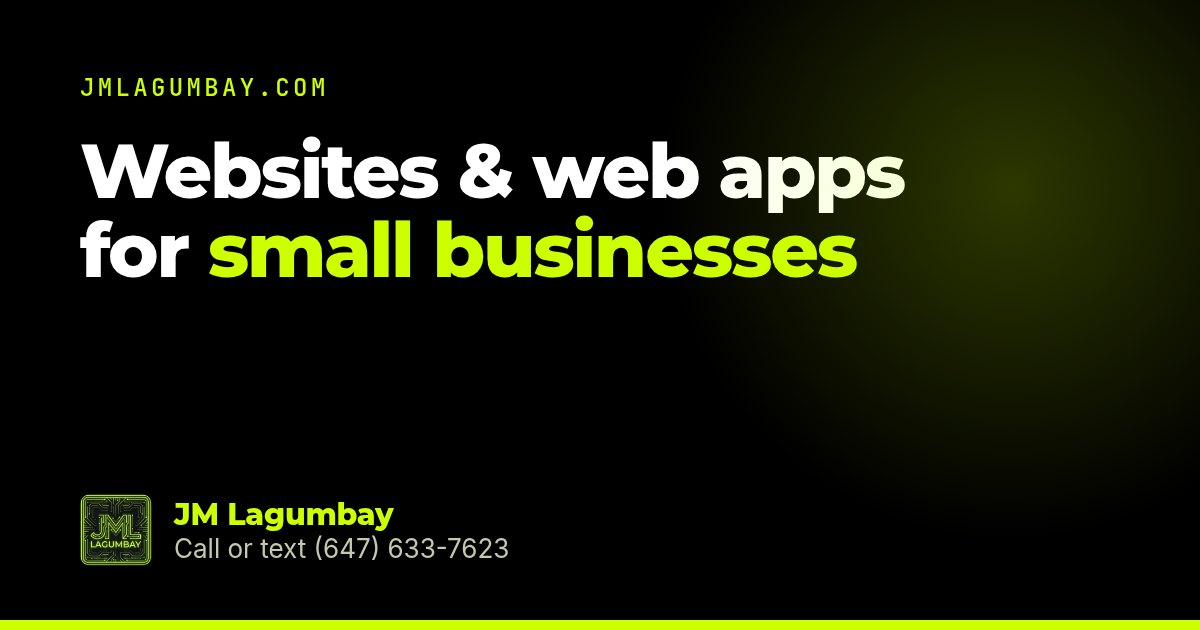
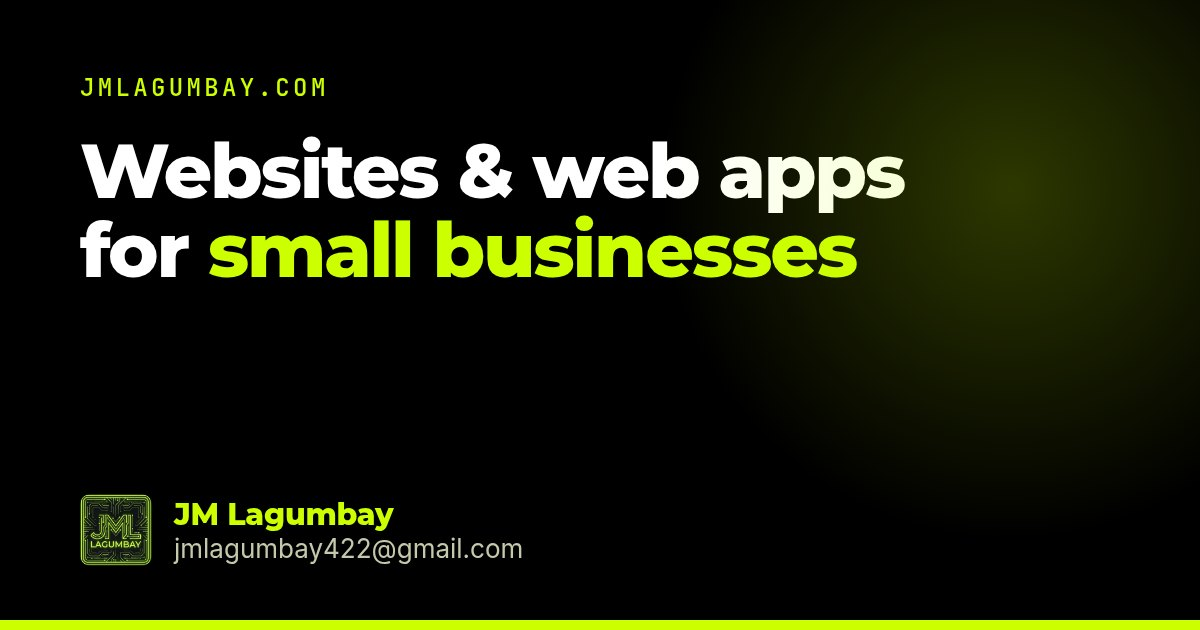
Remove phone number, generalize copy, hide demo URLs, drop production-line section

Changed region(s): [[0.1233, 0.8444, 0.4317, 0.9048]]

diff --git a/src/pages/Home.jsx b/src/pages/Home.jsx
@@ -1,6 +1,6 @@
 import { useRef, useState } from "react";
 import { Link } from "react-router-dom";
-import { IconArrowRight, IconDeviceMobile, IconAppWindow, IconWorld, IconPhone } from "@tabler/icons-react";
+import { IconArrowRight, IconDeviceMobile, IconAppWindow, IconWorld, IconPhone, IconMail } from "@tabler/icons-react";
 import Seo from "@/components/Seo";
 import Reveal from "@/components/Reveal";
 import HeroGlow from "@/components/HeroGlow";
@@ -9,13 +9,13 @@ import NestWillowCard from "@/components/NestWillowCard";
 import PreviewPauseButton from "@/components/PreviewPauseButton";
 import CtaBand from "@/components/CtaBand";
 import { DEMOS, FEATURED_DEMOS } from "@/data/work";
-import { PHONE_DISPLAY, PHONE_HREF } from "@/data/site";
+import { EMAIL, PHONE, PHONE_DISPLAY, PHONE_HREF } from "@/data/site";
 
 const HEADLINE = ["I", "build", "fast,", "modern", "websites", "and", "web", "apps", "for", "small", "businesses", "and", "founders."];
 const LIME_FROM = 9; // "small businesses and founders." in lime
 
 const HIGHLIGHTS = [
-  { icon: IconDeviceMobile, title: "Websites that bring in customers", text: "Salons, auto shops, bakeries, cleaners: a site that works on every phone, with tap-to-call, your hours and a map, and that shows up on Google. Packages from $499 (launch price), ready in 3–14 business days." },
+  { icon: IconDeviceMobile, title: "Websites that bring in customers", text: "A site that works on every phone, with tap-to-call, your hours and a map, and that shows up on Google. Packages from $499 (launch price), ready in 3–14 business days." },
   { icon: IconAppWindow, title: "Custom web apps", text: "Dashboards, client portals, booking or management tools, and SaaS MVPs for founders. Built with React, Node, Java/Spring and Python, with a fixed quote before I start." },
   { icon: IconWorld, title: "Clear prices, wherever you are", text: "Website packages are one price, paid once. Apps get a fixed quote. I work remotely with clients across Canada and beyond, so where you\u2019re based doesn\u2019t matter." },
 ];
@@ -51,10 +51,17 @@ export function Component() {
             <Link to="/work" className="btn-ghost">See my work</Link>
           </div>
           <p className="mt-6 text-on-surface-variant">
-            <a href={PHONE_HREF} className="inline-flex min-h-[44px] items-center gap-2 font-semibold text-on-surface hover:text-electric-lime">
-              <IconPhone size={18} stroke={2} aria-hidden="true" className="text-electric-lime" />
-              Call or text {PHONE_DISPLAY}
-            </a>
+            {PHONE ? (
+              <a href={PHONE_HREF} className="inline-flex min-h-[44px] items-center gap-2 font-semibold text-on-surface hover:text-electric-lime">
+                <IconPhone size={18} stroke={2} aria-hidden="true" className="text-electric-lime" />
+                Call or text {PHONE_DISPLAY}
+              </a>
+            ) : (
+              <a href={`mailto:${EMAIL}`} className="inline-flex min-h-[44px] items-center gap-2 font-semibold text-on-surface hover:text-electric-lime">
+                <IconMail size={18} stroke={2} aria-hidden="true" className="shrink-0 text-electric-lime" />
+                <span className="min-w-0 [overflow-wrap:anywhere]">Or email {EMAIL}</span>
+              </a>
+            )}
           </p>
         </div>
       </section>
@@ -107,22 +114,6 @@ export function Component() {
           <Reveal className="mt-8">
             <Link to="/work" className="link inline-flex min-h-[44px] items-center gap-1.5">
               See all my work <IconArrowRight size={18} stroke={2.2} aria-hidden="true" />
-            </Link>
-          </Reveal>
-        </div>
-      </section>
-
-      <section className="section" aria-labelledby="trust-title">
-        <div className="wrap grid gap-8 lg:grid-cols-[1fr_1.2fr] lg:items-center">
-          <Reveal>
-            <h2 id="trust-title" className="h-section">I run your project like a production line</h2>
-          </Reveal>
-          <Reveal delay={0.08}>
-            <p className="lead">
-              Before I built websites and apps, I spent 18 years in process and quality work at Tesla, SYKES and DigitalStorm. Your project gets the same care: a clear plan, checks at every step, and work that&apos;s ready when I say it will be.
-            </p>
-            <Link to="/about" className="link mt-6 inline-flex min-h-[44px] items-center gap-1.5">
-              Read my story <IconArrowRight size={18} stroke={2.2} aria-hidden="true" />
             </Link>
           </Reveal>
         </div>

diff --git a/src/components/ContactForm.jsx b/src/components/ContactForm.jsx
@@ -1,7 +1,7 @@
 import { useEffect, useRef, useState } from "react";
 import { useSearchParams } from "react-router-dom";
 import { IconSend, IconCircleCheck, IconAlertTriangle } from "@tabler/icons-react";
-import { EMAIL, PHONE_DISPLAY, PHONE_HREF } from "@/data/site";
+import { EMAIL, PHONE, PHONE_DISPLAY, PHONE_HREF } from "@/data/site";
 
 // The Web3Forms access key comes ONLY from the build environment (VITE_WEB3FORMS_KEY).
 // Locally: .env.local (git-ignored). Production: GitHub repository secret, passed in by the deploy workflow.
@@ -30,7 +30,7 @@ function validate(f) {
     // (clients outside Canada) may have up to 15 digits (E.164), or 8+ when written with a leading "+".
     const d = phone.replace(/\D/g, "");
     const ok = /^\+/.test(phone) ? d.length >= 8 && d.length <= 15 : d.length >= 10 && d.length <= 15;
-    // Only digits, spaces, ( ) . - and at most ONE leading "+" (rejects "++1 647…" and "647+633+7623").
+    // Only digits, spaces, ( ) . - and at most ONE leading "+" (rejects "++1 905…" and "905+555+0123").
     if (!ok || !/^\+?[\d\s().-]+$/.test(phone)) e.phone = "Please enter a valid phone number, including the country or area code.";
   }
   if (!f.need) e.need = "Please choose what you need. \u201cNot sure yet\u201d is fine.";
@@ -130,7 +130,9 @@ export default function ContactForm() {
       <div className="card p-7 sm:p-9" role="status">
         <IconCircleCheck size={44} stroke={1.8} aria-hidden="true" className="text-electric-lime" />
         <h2 ref={statusRef} tabIndex={-1} className="mt-4 text-2xl font-extrabold">Thanks, your message is on its way!</h2>
-        <p className="mt-3 text-on-surface">I&apos;ll get back to you soon. If it&apos;s urgent, call or text me at <a href={PHONE_HREF} className="link">{PHONE_DISPLAY}</a>.</p>
+        <p className="mt-3 text-on-surface">I&apos;ll get back to you soon. If it&apos;s urgent, {PHONE
+          ? <>call or text me at <a href={PHONE_HREF} className="link">{PHONE_DISPLAY}</a>.</>
+          : <>email me at <a href={`mailto:${EMAIL}`} className="link [overflow-wrap:anywhere]">{EMAIL}</a>.</>}</p>
         <button type="button" className="btn-primary mt-7" onClick={backToForm}>Send another message</button>
       </div>
     );
@@ -144,7 +146,7 @@ export default function ContactForm() {
           {status === "offline" ? (
             <>Looks like you&apos;re offline. Check your connection and try again.</>
           ) : (
-            <>Please try again in a moment, or call or text me at <a href={PHONE_HREF} className="link">{PHONE_DISPLAY}</a> or email <a href={`mailto:${EMAIL}`} className="link [overflow-wrap:anywhere]">{EMAIL}</a>.</>
+            <>Please try again in a moment, or {PHONE && <>call or text me at <a href={PHONE_HREF} className="link">{PHONE_DISPLAY}</a> or </>}email <a href={`mailto:${EMAIL}`} className="link [overflow-wrap:anywhere]">{EMAIL}</a>.</>
           )}
         </p>
         <button type="button" className="btn-primary mt-7" onClick={backToForm}>Try again</button>

diff --git a/src/pages/Contact.jsx b/src/pages/Contact.jsx
@@ -3,7 +3,7 @@ import Seo from "@/components/Seo";
 import PageHeader from "@/components/PageHeader";
 import Reveal from "@/components/Reveal";
 import ContactForm from "@/components/ContactForm";
-import { EMAIL, GITHUB_URL, LINKEDIN_URL, LOCATION, REMOTE, PHONE_DISPLAY, PHONE_HREF } from "@/data/site";
+import { EMAIL, GITHUB_URL, LINKEDIN_URL, LOCATION, REMOTE, PHONE, PHONE_DISPLAY, PHONE_HREF } from "@/data/site";
 
 const ext = { target: "_blank", rel: "noopener noreferrer" };
 
@@ -33,7 +33,7 @@ export function Component() {
         <div className="wrap grid gap-12 lg:grid-cols-[0.8fr_1.2fr] lg:items-start">
           <Reveal>
             <ul className="space-y-7">
-              <Row icon={IconPhone} label="Call or text"><a href={PHONE_HREF} className={linkCls}>{PHONE_DISPLAY}</a></Row>
+              {PHONE && <Row icon={IconPhone} label="Call or text"><a href={PHONE_HREF} className={linkCls}>{PHONE_DISPLAY}</a></Row>}
               <Row icon={IconMail} label="Email"><a href={`mailto:${EMAIL}`} className={`${linkCls} [overflow-wrap:anywhere]`}>{EMAIL}</a></Row>
               <Row icon={IconMapPin} label="Based in"><span>{LOCATION} · {REMOTE}</span></Row>
               <Row icon={IconBrandLinkedin} label="Online">
@@ -44,7 +44,9 @@ export function Component() {
               </Row>
             </ul>
             <p className="mt-8 rounded-2xl border border-border-subtle bg-graphite-grey p-5 text-on-surface">
-              Prefer to talk? Call or text me. It&apos;s the quickest way.
+              {PHONE
+                ? <>Prefer to talk? Call or text me. It&apos;s the quickest way.</>
+                : <>The easiest way to reach me is the form, or email me any time. I&apos;ll get back to you with the next steps.</>}
             </p>
           </Reveal>
           <Reveal delay={0.08}><ContactForm /></Reveal>

diff --git a/src/components/CtaBand.jsx b/src/components/CtaBand.jsx
@@ -1,9 +1,11 @@
 import { Link } from "react-router-dom";
-import { IconPhone, IconArrowRight } from "@tabler/icons-react";
+import { IconPhone, IconMail, IconArrowRight } from "@tabler/icons-react";
 import Reveal from "./Reveal";
-import { PHONE_DISPLAY, PHONE_HREF } from "@/data/site";
+import { EMAIL, PHONE, PHONE_DISPLAY, PHONE_HREF } from "@/data/site";
 
-export default function CtaBand({ title, text, primary = { to: "/contact", label: "Start your project" }, phone = true }) {
+/** `direct`: show a second button to reach me directly (call/text while a business phone is set in
+ *  site.js, otherwise email). */
+export default function CtaBand({ title, text, primary = { to: "/contact", label: "Start your project" }, direct = true }) {
   return (
     <section className="section" aria-labelledby="cta-title">
       <div className="wrap">
@@ -16,10 +18,16 @@ export default function CtaBand({ title, text, primary = { to: "/contact", label
               {primary.label}
               <IconArrowRight size={18} stroke={2.2} aria-hidden="true" />
             </Link>
-            {phone && (
+            {direct && PHONE && (
               <a href={PHONE_HREF} className="btn-ghost w-full sm:w-auto">
                 <IconPhone size={18} stroke={2} aria-hidden="true" />
                 Call or text <span className="whitespace-nowrap">{PHONE_DISPLAY}</span>
+              </a>
+            )}
+            {direct && !PHONE && (
+              <a href={`mailto:${EMAIL}`} className="btn-ghost w-full sm:w-auto">
+                <IconMail size={18} stroke={2} aria-hidden="true" />
+                Email me
               </a>
             )}
           </div>

diff --git a/src/layout/MobileMenu.jsx b/src/layout/MobileMenu.jsx
@@ -2,9 +2,9 @@ import { useCallback, useEffect, useRef, useState } from "react";
 import { createPortal } from "react-dom";
 import { NavLink, Link, useLocation } from "react-router-dom";
 import { AnimatePresence, m } from "motion/react";
-import { IconMenu2, IconX, IconPhone } from "@tabler/icons-react";
+import { IconMenu2, IconX, IconPhone, IconMail } from "@tabler/icons-react";
 import Logo from "@/components/Logo";
-import { NAV, PHONE_DISPLAY, PHONE_HREF } from "@/data/site";
+import { NAV, EMAIL, PHONE, PHONE_DISPLAY, PHONE_HREF } from "@/data/site";
 
 const FOCUSABLE = 'a[href], button:not([disabled]), [tabindex]:not([tabindex="-1"])';
 
@@ -127,10 +127,17 @@ export default function MobileMenu() {
               </m.ul>
               <div className="mt-10 flex flex-col gap-3">
                 <Link to="/contact" onClick={close} className="btn-primary">Start your project</Link>
-                <a href={PHONE_HREF} className="btn-ghost">
-                  <IconPhone size={18} stroke={2} aria-hidden="true" />
-                  Call or text {PHONE_DISPLAY}
-                </a>
+                {PHONE ? (
+                  <a href={PHONE_HREF} className="btn-ghost">
+                    <IconPhone size={18} stroke={2} aria-hidden="true" />
+                    Call or text {PHONE_DISPLAY}
+                  </a>
+                ) : (
+                  <a href={`mailto:${EMAIL}`} className="btn-ghost">
+                    <IconMail size={18} stroke={2} aria-hidden="true" />
+                    Email me
+                  </a>
+                )}
               </div>
             </nav>
           </m.div>

diff --git a/src/data/seo.js b/src/data/seo.js
@@ -22,7 +22,7 @@ export const SEO = {
     path: "/work",
     title: "NestWillow, Demo Sites & Projects | JM Lagumbay",
     description:
-      "See NestWillow, my live property-management web app, plus demo websites for salons, bakeries, auto shops and cleaners, and my web and ML projects.",
+      "See NestWillow, my live property-management web app, plus demo websites for local businesses, and my web and ML projects.",
     ogTitle: "NestWillow, Demo Sites & Projects | JM Lagumbay",
     ogDescription:
       "My live web app NestWillow, five demo websites for local businesses, and my web and machine-learning projects.",
@@ -40,10 +40,10 @@ export const SEO = {
     path: "/contact",
     title: "Contact JM Lagumbay | Start Your Website or Web App",
     description:
-      "Tell me what you need, a website or a custom web app. Call or text (647) 633-7623, email me or send the quick form. I work remotely with clients anywhere.",
+      "Tell me what you need, a website or a custom web app. Send the quick form or email me. I work remotely with clients anywhere.",
     ogTitle: "Let's Talk About Your Project | JM Lagumbay",
     ogDescription:
-      "A website or a custom web app? Call or text (647) 633-7623, or send a quick message. I work remotely with clients anywhere.",
+      "A website or a custom web app? Send a quick message or email me. I work remotely with clients anywhere.",
   },
   notFound: {
     path: "/404",

diff --git a/src/components/DeviceFrame.jsx b/src/components/DeviceFrame.jsx
@@ -2,9 +2,11 @@
  *  Pauses on card hover/focus and via the page's pause button; static under prefers-reduced-motion.
  *  `still`: for a short page (e.g. a one-screen landing page) the screen takes the screenshot's own
  *  aspect ratio and nothing moves, instead of auto-scrolling a few pixels.
- *  `priority`: the image is the page's LCP element (loaded eagerly, high fetch priority). */
-export default function DeviceFrame({ shot, url, alt, eager = false, still = false, priority = false }) {
-  const host = url.replace(/^https?:\/\//, "").replace(/\/$/, "");
+ *  `priority`: the image is the page's LCP element (loaded eagerly, high fetch priority).
+ *  `label`: text for the fake address bar. Demo cards pass the business name so the demo's hosting
+ *  URL is never shown; without a label the bar shows the URL's host (e.g. NestWillow's own domain). */
+export default function DeviceFrame({ shot, url, label, alt, eager = false, still = false, priority = false }) {
+  const host = label || url.replace(/^https?:\/\//, "").replace(/\/.*$/, "");
   return (
     <div className="overflow-hidden rounded-xl border border-white/10 bg-[#1b1d1d] shadow-[0_20px_50px_-20px_rgba(0,0,0,0.8)]">
       <div aria-hidden="true" className="flex items-center gap-2 border-b border-white/10 px-3 py-2">

diff --git a/src/layout/Footer.jsx b/src/layout/Footer.jsx
@@ -1,5 +1,5 @@
 import { Link } from "react-router-dom";
-import { EMAIL, GITHUB_URL, LINKEDIN_URL, LOCATION, REMOTE, PHONE_DISPLAY, PHONE_HREF, RESUME_URL, FULL_NAME } from "@/data/site";
+import { EMAIL, GITHUB_URL, LINKEDIN_URL, LOCATION, REMOTE, PHONE, PHONE_DISPLAY, PHONE_HREF, RESUME_URL, FULL_NAME } from "@/data/site";
 
 const ext = { target: "_blank", rel: "noopener noreferrer" };
 
@@ -15,7 +15,8 @@ export default function Footer() {
             <strong className="font-display font-extrabold text-primary">JM Lagumbay</strong>: fast, modern websites and web apps for small businesses and founders.
           </p>
           <p className="text-on-surface-variant">
-            Call or text <a href={PHONE_HREF} className="link">{PHONE_DISPLAY}</a> · <a href={`mailto:${EMAIL}`} className="link [overflow-wrap:anywhere]">{EMAIL}</a> · <span className="whitespace-nowrap">Based in {LOCATION}</span> · {REMOTE}
+            {PHONE && <>Call or text <a href={PHONE_HREF} className="link">{PHONE_DISPLAY}</a> · </>}
+            Email <a href={`mailto:${EMAIL}`} className="link [overflow-wrap:anywhere]">{EMAIL}</a> · <span className="whitespace-nowrap">Based in {LOCATION}</span> · {REMOTE}
           </p>
         </div>
         <nav aria-label="Footer">

diff --git a/src/data/site.js b/src/data/site.js
@@ -3,8 +3,13 @@
 export const SITE_URL = "https://www.jmlagumbay.com";
 export const BRAND = "JM Lagumbay";
 export const FULL_NAME = "John Michael Lagumbay";
-export const PHONE_DISPLAY = "(647) 633-7623";
-export const PHONE_HREF = "tel:+16476337623";
+// Business phone. Empty for now (John will add a new business number later). While it's null,
+// nothing phone-related renders anywhere: no call buttons, links, rows or separators.
+// To restore, set it to { display: "(xxx) xxx-xxxx", e164: "+1xxxxxxxxxx" } and re-add
+// "telephone" to the JSON-LD in index.html.
+export const PHONE = null;
+export const PHONE_DISPLAY = PHONE ? PHONE.display : "";
+export const PHONE_HREF = PHONE ? `tel:${PHONE.e164}` : "";
 export const EMAIL = "jmlagumbay422@gmail.com";
 export const LOCATION = "Mississauga, Ontario";
 export const REMOTE = "working remotely with clients across Canada and beyond";

diff --git a/src/components/DemoCard.jsx b/src/components/DemoCard.jsx
@@ -14,7 +14,7 @@ export default function DemoCard({ demo, headingLevel = 3 }) {
       rel="noopener noreferrer"
       className="card flex h-full min-w-0 flex-col gap-5 p-4 transition-colors duration-300 hover:border-electric-lime/50 focus-visible:border-electric-lime sm:p-5"
     >
-      <DeviceFrame shot={demo.shot} url={demo.url} alt={`Screenshot of the ${demo.title} demo website home page`} />
+      <DeviceFrame shot={demo.shot} url={demo.url} label={demo.title} alt={`Screenshot of the ${demo.title} demo website home page`} />
       <div className="flex flex-1 flex-col gap-3 px-1">
         <p className="w-fit rounded-full border border-electric-lime/40 px-3 py-1 font-mono text-[12px] font-medium text-electric-lime">{DEMO_LABEL}</p>
         <H className="font-display text-xl font-extrabold leading-tight text-primary">{demo.title}</H>

diff --git a/index.html b/index.html
@@ -21,7 +21,6 @@
         "url": "https://www.jmlagumbay.com/",
         "logo": "https://www.jmlagumbay.com/icon-512.png",
         "image": "https://www.jmlagumbay.com/icon-512.png",
-        "telephone": "+1-647-633-7623",
         "email": "jmlagumbay422@gmail.com",
         "address": { "@type": "PostalAddress", "addressLocality": "Mississauga", "addressRegion": "ON", "addressCountry": "CA" },
         "areaServed": ["Canada", "Worldwide"],

diff --git a/src/pages/Work.jsx b/src/pages/Work.jsx
@@ -146,7 +146,7 @@ export function Component() {
         )}
       </AnimatePresence>
 
-      <CtaBand title="Like what you see?" text="Your website or app could be next. Let's talk about what you need." phone={false} />
+      <CtaBand title="Like what you see?" text="Your website or app could be next. Let's talk about what you need." direct={false} />
     </>
   );
 }
